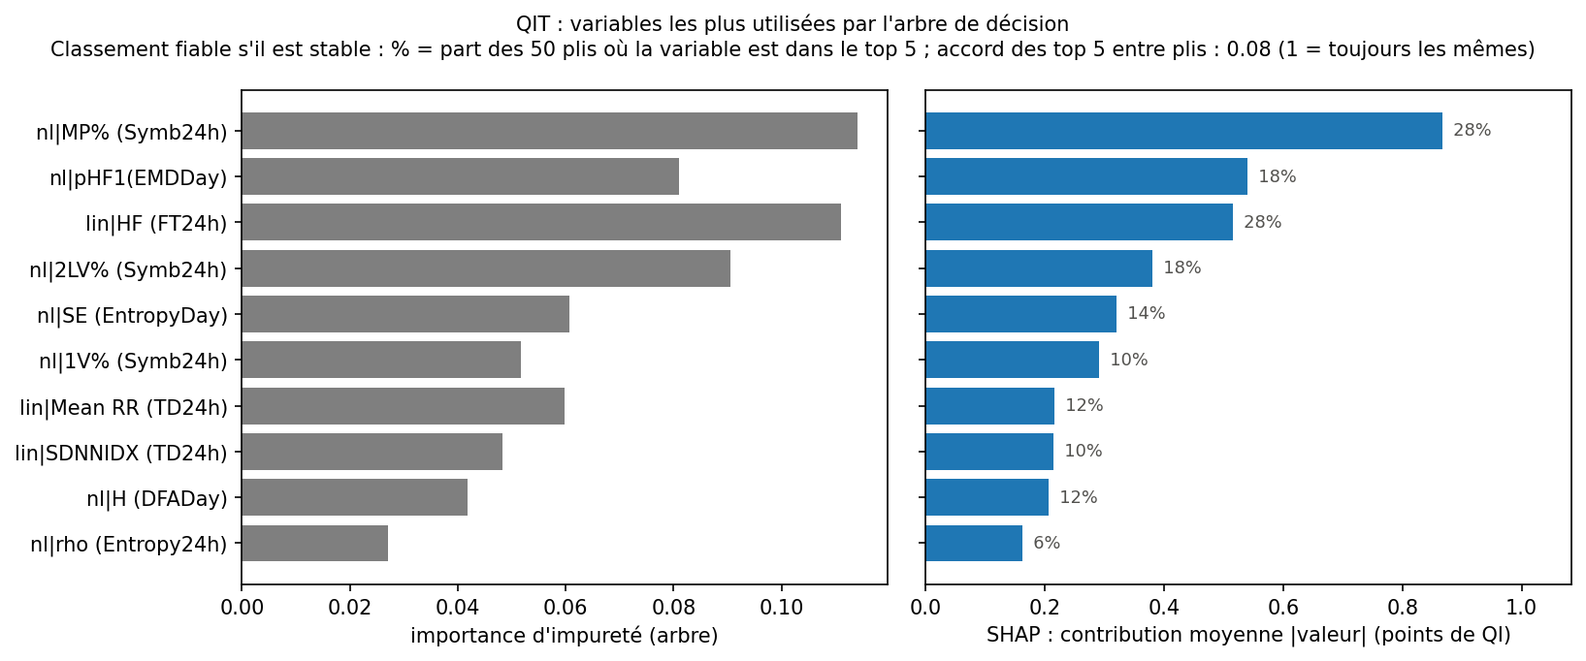
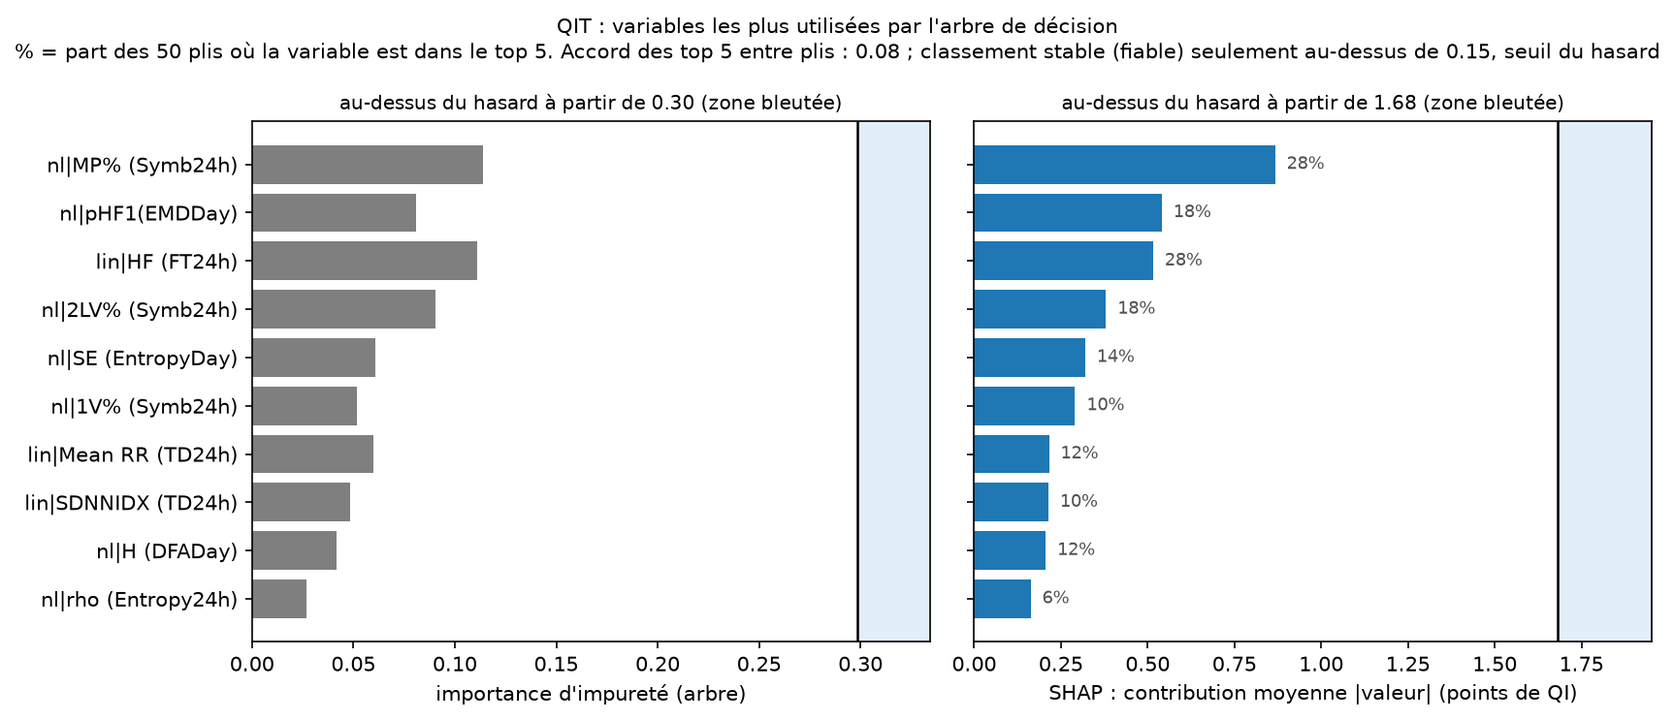
Full run of results

diff --git a/GroupA/Jade/results/SUMMARY.md b/GroupA/Jade/results/SUMMARY.md
@@ -1,12 +1,12 @@
 # Prédiction du QI à 3 ans à partir de la HRV néonatale : résumé
-*Groupe A · Jade · généré le 06/11/2026 par `01_prediction_qit.ipynb` · 10 × 5 plis*
+*Groupe A · Jade · généré le 26/11/2026 par `01_prediction_qit.ipynb` · 10 × 5 plis*
 
 ## Conclusion
-**Aucun modèle ne fait mieux que prédire le score moyen, sur aucune cible.** La HRV retrouve pourtant bien la prématurité (AUC 0.79) : les données et la méthode savent voir un lien quand il existe.
+**Aucun modèle ne fait mieux que prédire le score moyen, sur aucune cible.** La HRV retrouve pourtant la prématurité (AUC 0.79 [0.67 ; 0.93]) : les données et la méthode savent voir un lien quand il existe.
 
 ## Données et méthode
 - 189 enfants de la cohorte AuBE (enregistrement à la naissance, scores WPPSI-III complets) ; 25 indices HRV linéaires, 45 non linéaires, 6 covariables cliniques.
-- Modèles : Arbre de décision, Elastic Net, Kernel ridge, Kernel ridge multi-noyaux, LightGBM, Random Forest, Régression linéaire, SVR, XGBoost ; réduction des variables dans chaque pli ; évaluation sur les plis communs de l'équipe (10 × 5, `evaluate_model.py`).
+- Modèles : Arbre de décision, Elastic Net, Kernel ridge, Kernel ridge multi-noyaux, LightGBM, Random Forest, Régression linéaire, SVR, XGBoost ; réduction des variables dans chaque pli ; mêmes plis pour tous les modèles (10 × 5), évaluation par `evaluate_model.py` (outil commun de l'équipe).
 
 ## Régression (meilleur modèle par cible)
 | Cible | Modèle | MAE ± écart-type | R² | MAE de la moyenne | Gain vs moyenne [IC 95 %] |
@@ -22,29 +22,46 @@
 - Borne (indices choisis à l'avance : RMSSD (TD24h), HF (FT24h), SDNN (TD24h), 1re composante HRV) : aucun lien démontré ; aucun n'explique plus de 6% de la variance du QIT (6% au-delà des covariables cliniques), intervalles simultanés à 95 % ; un lien de 6% aurait été détecté 8 fois sur 10.
 - Intervalle de prédiction à 90% (prédiction conforme) : ± 21.3 points, contre ± 20.9 autour du QIT moyen.
 
+## Tous les modèles (QIT)
+MAE et R² : moyenne ± écart-type sur les plis ; gain sur la moyenne avec son IC à 95 % (`evaluate_model.py`).
+
+| modèle | MAE | R² | gain vs moyenne [IC 95 %] | gain démontré |
+|---|---|---|---|---|
+| Elastic Net · toutes · Clinique seul | 10.33 ± 0.69 | -0.007 ± 0.041 | +0.06 [-0.12 ; 0.23] | non |
+| Kernel ridge multi-noyaux · toutes · Clinique + HRV | 10.38 ± 0.73 | -0.020 ± 0.064 | +0.02 [-0.30 ; 0.32] | non |
+| score moyen (référence) | 10.39 ± 0.66 | -0.005 ± 0.004 |  |  |
+| Elastic Net · toutes · Clinique + HRV | 10.47 ± 0.72 | -0.025 ± 0.045 | -0.08 [-0.14 ; -0.02] | non, moins bien |
+| SVR · PCA 90 % · Clinique + HRV | 10.51 ± 0.73 | -0.034 ± 0.065 | -0.12 [-0.22 ; -0.02] | non, moins bien |
+| Random Forest · toutes · Clinique + HRV | 10.59 ± 0.68 | -0.047 ± 0.031 | -0.19 [-0.33 ; -0.05] | non, moins bien |
+| XGBoost · sél. RF · Clinique + HRV | 10.61 ± 0.77 | -0.058 ± 0.066 | -0.22 [-0.44 ; -0.01] | non, moins bien |
+| Kernel ridge · toutes · Clinique + HRV | 10.62 ± 0.75 | -0.068 ± 0.106 | -0.23 [-0.37 ; -0.09] | non, moins bien |
+| Régression linéaire · pas à pas · Clinique + HRV | 10.89 ± 0.80 | -0.121 ± 0.115 | -0.50 [-0.75 ; -0.24] | non, moins bien |
+| LightGBM · sél. RF · Clinique + HRV | 10.93 ± 0.86 | -0.126 ± 0.105 | -0.54 [-0.86 ; -0.23] | non, moins bien |
+| Arbre de décision · toutes · Clinique + HRV | 11.14 ± 0.97 | -0.165 ± 0.150 | -0.74 [-1.03 ; -0.46] | non, moins bien |
+
 ## Méthodes ajoutées après les retours des enseignants (QIT)
-- Régression linéaire · pas à pas · Clinique + HRV : MAE 10.89, gain -0.50 [-0.75 ; -0.24] (non démontré).
-- Arbre de décision · toutes · Clinique + HRV : MAE 11.14, gain -0.74 [-1.03 ; -0.46] (non démontré).
-- Kernel ridge · toutes · Clinique + HRV : MAE 10.62, gain -0.23 [-0.37 ; -0.09] (non démontré).
+- Régression linéaire · pas à pas · Clinique + HRV : MAE 10.89, gain -0.50 [-0.75 ; -0.24] (moins bien que la moyenne).
+- Arbre de décision · toutes · Clinique + HRV : MAE 11.14, gain -0.74 [-1.03 ; -0.46] (moins bien que la moyenne).
+- Kernel ridge · toutes · Clinique + HRV : MAE 10.62, gain -0.23 [-0.37 ; -0.09] (moins bien que la moyenne).
 - Kernel ridge multi-noyaux · toutes · Clinique + HRV : MAE 10.38, gain +0.02 [-0.30 ; 0.32] (non démontré).
 - Poids du kernel ridge multi-noyaux (médiane sur les plis) : clinique 1.00, HRV linéaire 0.00, HRV non linéaire 0.00.
-- Classement des variables par un arbre de décision (importance d'impureté et SHAP) : accord des top 5 entre plis 0.08 pour le QIT, 0.22 pour la prématurité (en tête : nl|alpha2 (DFADay)) ; 1 = toujours les mêmes variables.
-- Réglages de chaque modèle (fixés ou cherchés, et comment) : section 3 du notebook ; réglages retenus pli par pli : `results/reglages_retenus_QIT.csv`.
+- Classement des variables par un arbre de décision (importance d'impureté et SHAP) : pour le QIT, variables au-dessus du hasard : aucune ; accord des top 5 entre plis 0.08 (stable au-dessus de 0.15). Pour la prématurité : nl|alpha2 (DFADay), lin|pcNN20 (TD24h) ; accord 0.22 (stable au-dessus de 0.28).
+- Réglages de chaque modèle (fixés ou cherchés, et comment) : section 3 du notebook ; réglages retenus pli par pli : `results/reglages_retenus_QIT.md`.
 
 ## Contrôle positif, classification, hypothèses
-- Contrôle positif : HRV seule → prématurité, AUC 0.79 [0.67 ; 0.93].
-- Classification QIT < 90 (40 enfants) : meilleure AUC 0.50 [0.39 ; 0.61] (Logistique · Clinique + HRV), exactitude équilibrée 0.51, kappa 0.02.
-- H1 · HRV à M0 (189 enfants) : gain -0.13 [-0.22 ; -0.04] (non soutenue).
+- Contrôle positif : HRV seule → prématurité, AUC 0.79 [0.67 ; 0.93] (lien démontré (IC > 0,5) ; discrimination acceptable ; accord faible).
+- Classification QIT < 90 (40 enfants) : meilleure AUC 0.50 [0.39 ; 0.61] (Logistique · Clinique + HRV), exactitude équilibrée 0.50, kappa 0.00 (aucun lien démontré (l'IC contient 0,5) ; discrimination faible ; accord très faible).
+- H1 · HRV à M0 (189 enfants) : gain -0.13 [-0.22 ; -0.04] (non soutenue : moins bien que la moyenne).
 - H1 · HRV à M6 (176 enfants) : gain -0.07 [-0.32 ; 0.17] (non soutenue).
 - H1 · HRV à M12 (177 enfants) : gain -0.03 [-0.07 ; 0.01] (non soutenue).
 - H1 · HRV à M18 (173 enfants) : gain +0.01 [-0.14 ; 0.17] (non soutenue).
-- H1 · HRV à M24 (182 enfants) : gain -0.14 [-0.24 ; -0.05] (non soutenue).
+- H1 · HRV à M24 (182 enfants) : gain -0.14 [-0.24 ; -0.05] (non soutenue : moins bien que la moyenne).
 - H2 · évolution M0 → M12 (175 enfants) : gain -0.05 [-0.19 ; 0.08] (non soutenue).
 - H2 · évolution M0 → M24 (180 enfants) : gain -0.10 [-0.26 ; 0.05] (non soutenue).
 - Avec 7 hypothèses testées, une hypothèse soutenue isolée peut être due au hasard : à confirmer.
 
 ## Limites
-- Environ 190 enfants ; pas de cohorte externe ; le QI à 3 ans dépend de nombreux facteurs non mesurés ici (environnement familial, niveau socio-économique).
+- 189 enfants ; pas de cohorte externe ; le QI à 3 ans dépend de nombreux facteurs non mesurés ici (environnement familial, niveau socio-économique).
 - Une association n'est pas une cause : un modèle prédictif ne dit pas comment améliorer le QI d'un enfant.
 
 ## Suite

diff --git a/GroupA/Jade/results/en/SUMMARY.md b/GroupA/Jade/results/en/SUMMARY.md
@@ -1,12 +1,12 @@
 # Predicting IQ at age 3 from neonatal HRV: summary
-*Group A · Jade · generated on 05/11/2026 by `01_prediction_qit_en.ipynb` · 10 × 5 folds*
+*Group A · Jade · generated on 26/11/2026 by `01_prediction_qit_en.ipynb` · 10 × 5 folds*
 
 ## Conclusion
-**No model does better than predicting the mean score, for any target.** Yet HRV does recognise prematurity (AUC 0.79): the data and the method can see a link when there is one.
+**No model does better than predicting the mean score, for any target.** Yet HRV does recognise prematurity (AUC 0.79 [0.67, 0.93]): the data and the method can see a link when there is one.
 
 ## Data and method
 - 189 children of the AuBE cohort (recording at birth, complete WPPSI-III scores); 25 linear HRV indices, 45 non-linear, 6 clinical covariates.
-- Models: Elastic Net, LightGBM, Random Forest, SVR, XGBoost; feature reduction within each fold; evaluation on the team's shared folds (10 × 5, `evaluate_model.py`).
+- Models: Decision tree, Elastic Net, Kernel ridge, LightGBM, Linear regression, Multiple kernel ridge, Random Forest, SVR, XGBoost; feature reduction within each fold; same folds for all models (10 × 5), evaluation with `evaluate_model.py` (the team's shared tool).
 - Targets (French codes of the data): QIT = Full Scale IQ, QIV = Verbal IQ, QIP = Performance IQ, NCL = General Language Composite.
 
 ## Regression (best model per target)
@@ -23,20 +23,46 @@
 - Bound (indices chosen in advance: RMSSD (TD24h), HF (FT24h), SDNN (TD24h), 1st HRV component): no link demonstrated; none explains more than 6% of the FSIQ variance (6% beyond the clinical covariates), simultaneous 95% intervals; a link of 6% would have been detected 8 times out of 10.
 - 90% prediction interval (conformal prediction): ± 21.3 points, versus ± 20.9 around the mean FSIQ.
 
+## All models (FSIQ)
+MAE and R²: mean ± standard deviation over the folds; gain over the mean with its 95% CI (`evaluate_model.py`).
+
+| model | MAE | R² | gain vs mean [95% CI] | gain demonstrated |
+|---|---|---|---|---|
+| Elastic Net · all · Clinical only | 10.33 ± 0.69 | -0.007 ± 0.041 | +0.06 [-0.12, 0.23] | no |
+| Multiple kernel ridge · all · Clinical + HRV | 10.38 ± 0.73 | -0.020 ± 0.064 | +0.02 [-0.30, 0.32] | no |
+| mean score (baseline) | 10.39 ± 0.66 | -0.005 ± 0.004 |  |  |
+| Elastic Net · all · Clinical + HRV | 10.47 ± 0.72 | -0.025 ± 0.045 | -0.08 [-0.14, -0.02] | no, worse |
+| SVR · PCA 90% · Clinical + HRV | 10.51 ± 0.73 | -0.034 ± 0.065 | -0.12 [-0.22, -0.02] | no, worse |
+| Random Forest · all · Clinical + HRV | 10.59 ± 0.68 | -0.047 ± 0.031 | -0.19 [-0.33, -0.05] | no, worse |
+| XGBoost · RF selection · Clinical + HRV | 10.61 ± 0.77 | -0.058 ± 0.066 | -0.22 [-0.44, -0.01] | no, worse |
+| Kernel ridge · all · Clinical + HRV | 10.62 ± 0.75 | -0.068 ± 0.106 | -0.23 [-0.37, -0.09] | no, worse |
+| Linear regression · stepwise · Clinical + HRV | 10.89 ± 0.80 | -0.121 ± 0.115 | -0.50 [-0.75, -0.24] | no, worse |
+| LightGBM · RF selection · Clinical + HRV | 10.93 ± 0.86 | -0.126 ± 0.105 | -0.54 [-0.86, -0.23] | no, worse |
+| Decision tree · all · Clinical + HRV | 11.14 ± 0.97 | -0.165 ± 0.150 | -0.74 [-1.03, -0.46] | no, worse |
+
+## Methods added after the teachers' feedback (FSIQ)
+- Linear regression · stepwise · Clinical + HRV: MAE 10.89, gain -0.50 [-0.75, -0.24] (worse than the mean).
+- Decision tree · all · Clinical + HRV: MAE 11.14, gain -0.74 [-1.03, -0.46] (worse than the mean).
+- Kernel ridge · all · Clinical + HRV: MAE 10.62, gain -0.23 [-0.37, -0.09] (worse than the mean).
+- Multiple kernel ridge · all · Clinical + HRV: MAE 10.38, gain +0.02 [-0.30, 0.32] (not demonstrated).
+- Multiple kernel ridge weights (median over the folds): clinical 1.00, linear HRV 0.00, non-linear HRV 0.00.
+- Variable ranking by a decision tree (impurity importance and SHAP): for FSIQ, variables above chance: none; agreement of the top 5 between folds 0.08 (stable above 0.15). For prematurity: nl|alpha2 (DFADay), lin|pcNN20 (TD24h); agreement 0.22 (stable above 0.28).
+- Settings of each model (fixed or tuned, and how): section 3 of the notebook; settings chosen fold by fold: `results/en/settings_chosen_QIT.md`.
+
 ## Positive control, classification, hypotheses
-- Positive control: HRV only → prematurity, AUC 0.79 [0.67, 0.93].
-- Classification FSIQ < 90 (40 children): best AUC 0.50 [0.39, 0.61] (Logistic · Clinical + HRV), balanced accuracy 0.51, kappa 0.02.
-- H1 · HRV at M0 (189 children): gain -0.13 [-0.22, -0.04] (not supported).
+- Positive control: HRV only → prematurity, AUC 0.79 [0.67, 0.93] (link demonstrated (CI > 0.5); acceptable discrimination; fair agreement).
+- Classification FSIQ < 90 (40 children): best AUC 0.50 [0.39, 0.61] (Logistic · Clinical + HRV), balanced accuracy 0.50, kappa 0.00 (no link demonstrated (CI contains 0.5); poor discrimination; slight agreement).
+- H1 · HRV at M0 (189 children): gain -0.13 [-0.22, -0.04] (not supported: worse than the mean).
 - H1 · HRV at M6 (176 children): gain -0.07 [-0.32, 0.17] (not supported).
 - H1 · HRV at M12 (177 children): gain -0.03 [-0.07, 0.01] (not supported).
 - H1 · HRV at M18 (173 children): gain +0.01 [-0.14, 0.17] (not supported).
-- H1 · HRV at M24 (182 children): gain -0.14 [-0.24, -0.05] (not supported).
+- H1 · HRV at M24 (182 children): gain -0.14 [-0.24, -0.05] (not supported: worse than the mean).
 - H2 · change M0 → M12 (175 children): gain -0.05 [-0.19, 0.08] (not supported).
 - H2 · change M0 → M24 (180 children): gain -0.10 [-0.26, 0.05] (not supported).
 - With 7 hypotheses tested, an isolated supported hypothesis may be due to chance: to be confirmed.
 
 ## Limitations
-- About 190 children; no external cohort; IQ at age 3 depends on many factors not measured here (family environment, socio-economic status).
+- 189 children; no external cohort; IQ at age 3 depends on many factors not measured here (family environment, socio-economic status).
 - Association is not causation: a predictive model does not say how to improve a child's IQ.
 
 ## Next steps

diff --git a/GroupA/Jade/README_fr.md b/GroupA/Jade/README_fr.md
@@ -227,7 +227,7 @@ Jeu final : **189 enfants**, 25 indices HRV linéaires et 45 non linéaires (à 
 | QIP (performance) | Elastic Net, clinique seul | 9,75  | 9,75              | +0,00 [−0,16 ; 0,17]  |
 | NCL (langage)     | Elastic Net, clinique seul | 11,64 | 11,62             | −0,01 [−0,15 ; 0,13] |
 
-Aucun gain démontré (tous les IC contiennent 0). Ajouter la HRV au modèle clinique fait légèrement moins bien (MAE du QIT de 10,33 à 10,47). Les modèles à base d'arbres (Random Forest, LightGBM, XGBoost) font en moyenne moins bien que la moyenne, sur les 4 cibles.
+Aucun gain démontré (tous les IC contiennent 0). Ajouter la HRV au modèle clinique fait moins bien, de peu mais de façon démontrée (MAE du QIT de 10,33 à 10,47 ; gain sur la moyenne −0,08 [−0,14 ; −0,02]). Les modèles à base d'arbres (Random Forest, LightGBM, XGBoost) font en moyenne moins bien que la moyenne, sur les 4 cibles.
 
 ![Comparaison des modèles](results/comparaison_modeles.png)
 
@@ -257,7 +257,7 @@ Aucun gain démontré (tous les IC contiennent 0). Ajouter la HRV au modèle cli
 
 **Ce qui a été fait.** (a) Repérer les enfants avec un QIT < 90 (40 enfants) plutôt que prédire le score. (b) H1 : la HRV enregistrée plus tard (M6 à M24). (c) H2 : l'évolution de la HRV entre la naissance et 12 ou 24 mois.
 
-**Résultat.** QIT < 90 : AUC 0,50 [0,39 ; 0,61], comme le hasard (kappa 0,02). H1 et H2 : 7 hypothèses, aucune soutenue ; deux font même moins bien que la moyenne (HRV à la naissance : gain −0,13 [−0,22 ; −0,04] ; HRV à 24 mois : −0,14 [−0,24 ; −0,05]).
+**Résultat.** QIT < 90 : AUC 0,50 [0,39 ; 0,61], comme le hasard (kappa 0,00). H1 et H2 : 7 hypothèses, aucune soutenue ; deux font même moins bien que la moyenne (HRV à la naissance : gain −0,13 [−0,22 ; −0,04] ; HRV à 24 mois : −0,14 [−0,24 ; −0,05]).
 
 ![Hypothèses](results/hypotheses.png)
 
@@ -304,7 +304,9 @@ Aucun gain démontré (tous les IC contiennent 0). Ajouter la HRV au modèle cli
 | Kernel ridge multi-noyaux                    | 10,38 | +0,02 [−0,30 ; 0,32]         | non démontré : fait jeu égal avec la moyenne (10,39) |
 
 - **Poids du multi-noyaux** (médiane sur les 50 plis) : clinique **1,00**, HRV linéaire **0,00**, HRV non linéaire **0,00**. Quand on la laisse choisir, la validation croisée **n'utilise pas du tout la HRV** : c'est pour ça que ce modèle rejoint la moyenne au lieu de faire moins bien.
-- **Classement des variables** : l'accord des top 5 entre plis vaut 0,08 pour le QIT (le classement change presque à chaque pli) et 0,22 pour la prématurité (plus stable ; variable en tête : `nl|alpha2 (DFADay)`, un indice fractal de la HRV de jour). Pour savoir si ces valeurs sont bonnes, tout le classement est refait avec le QI (ou la prématurité) mélangé entre enfants : les seuils du hasard ainsi obtenus sont tracés sur les graphiques ci-dessous et repris dans `results/SUMMARY.md`.
+- **Classement des variables** (seuils du hasard : le même classement refait avec le QI, ou la prématurité, mélangé entre enfants) :
+  - pour le QIT, aucune variable ne dépasse le seuil du hasard, et l'accord des top 5 entre plis (0,08) reste sous celui du hasard (0,15) : le classement ne décrit que du bruit ;
+  - pour la prématurité, deux indices dépassent le seuil du hasard, en importance comme en SHAP : `nl|alpha2 (DFADay)`, un indice fractal de la HRV de jour, et `lin|pcNN20 (TD24h)`, la part des battements successifs qui diffèrent de plus de 20 ms (un marqueur du tonus vagal). Leurs valeurs basses vont avec une prématurité plus probable, mais l'effet moyen par quintile reste dans la zone du hasard, et l'ordre des variables suivantes n'est pas plus stable que par hasard (accord 0,22 contre 0,28). La HRV reconnaît donc la prématurité (étape 7) sans qu'un classement fin de ses indices soit fiable avec 189 enfants.
 - **SVR** : ses chiffres changent un peu avec la grille corrigée (tableau de tous les modèles dans `results/SUMMARY.md`) ; il reste moins bon qu'Elastic Net.
 - Réglages retenus pli par pli : [`results/reglages_retenus_QIT.md`](results/reglages_retenus_QIT.md).
 

diff --git a/GroupA/Jade/README.md b/GroupA/Jade/README.md
@@ -227,7 +227,7 @@ Final dataset: **189 children**, 25 linear and 45 non-linear HRV indices (at M0,
 | QIP (performance) | Elastic Net, clinical only | 9.75 | 9.75 | +0.00 [−0.16, 0.17] |
 | NCL (language) | Elastic Net, clinical only | 11.64 | 11.62 | −0.01 [−0.15, 0.13] |
 
-No gain is demonstrated (every CI contains 0). Adding HRV to the clinical model does slightly worse (FSIQ MAE from 10.33 to 10.47). Tree-based models (Random Forest, LightGBM, XGBoost) do worse than the mean on average, for all 4 targets.
+No gain is demonstrated (every CI contains 0). Adding HRV to the clinical model does worse, slightly but demonstrably (FSIQ MAE from 10.33 to 10.47; gain over the mean −0.08 [−0.14, −0.02]). Tree-based models (Random Forest, LightGBM, XGBoost) do worse than the mean on average, for all 4 targets.
 
 ![Model comparison](results/en/model_comparison.png)
 
@@ -257,7 +257,7 @@ No gain is demonstrated (every CI contains 0). Adding HRV to the clinical model 
 
 **What was done.** (a) Spot children with FSIQ < 90 (40 children) instead of predicting the score. (b) H1: HRV recorded later (M6 to M24). (c) H2: change in HRV between birth and 12 or 24 months.
 
-**Result.** FSIQ < 90: AUC 0.50 [0.39, 0.61], like chance (kappa 0.02). H1 and H2: 7 hypotheses, none supported; two even do worse than the mean (HRV at birth: gain −0.13 [−0.22, −0.04]; HRV at 24 months: −0.14 [−0.24, −0.05]).
+**Result.** FSIQ < 90: AUC 0.50 [0.39, 0.61], like chance (kappa 0.00). H1 and H2: 7 hypotheses, none supported; two even do worse than the mean (HRV at birth: gain −0.13 [−0.22, −0.04]; HRV at 24 months: −0.14 [−0.24, −0.05]).
 
 ![Hypotheses](results/en/hypotheses.png)
 
@@ -304,7 +304,9 @@ No gain is demonstrated (every CI contains 0). Adding HRV to the clinical model 
 | Multiple kernel ridge | 10.38 | +0.02 [−0.30, 0.32] | not demonstrated: on a par with the mean (10.39) |
 
 - **Multiple kernel weights** (median over the 50 folds): clinical **1.00**, linear HRV **0.00**, non-linear HRV **0.00**. When it is allowed to choose, cross-validation **does not use HRV at all**: this is why this model matches the mean instead of doing worse.
-- **Variable ranking**: the top-5 agreement between folds is 0.08 for FSIQ (the ranking changes almost every fold) and 0.22 for prematurity (more stable; top variable: `nl|alpha2 (DFADay)`, a fractal index of daytime HRV). To tell whether these values are good, the whole ranking is redone with IQ (or prematurity) shuffled between children: the chance thresholds obtained this way are drawn on the plots below and reported in `results/en/SUMMARY.md`.
+- **Variable ranking** (chance thresholds: the same ranking redone with IQ, or prematurity, shuffled between children):
+  - for FSIQ, no variable exceeds the chance threshold, and the top-5 agreement between folds (0.08) stays below the chance level (0.15): the ranking only describes noise;
+  - for prematurity, two indices exceed the chance threshold, in importance as in SHAP: `nl|alpha2 (DFADay)`, a fractal index of daytime HRV, and `lin|pcNN20 (TD24h)`, the share of successive beats that differ by more than 20 ms (a marker of vagal tone). Their low values go with a higher probability of prematurity, but the mean effect by quintile stays within the chance zone, and the order of the following variables is no more stable than chance (agreement 0.22 versus 0.28). HRV therefore recognises prematurity (step 7), but a fine ranking of its indices is not reliable with 189 children.
 - **SVR**: its numbers change slightly with the corrected grid (table of all models in `results/en/SUMMARY.md`); it stays worse than Elastic Net.
 - Settings chosen fold by fold: [`results/en/settings_chosen_QIT.md`](results/en/settings_chosen_QIT.md).
 

diff --git a/GroupA/Jade/results/reglages_retenus_QIT.md b/GroupA/Jade/results/reglages_retenus_QIT.md
@@ -1,0 +1,38 @@
+| modèle | réglage | valeurs retenues (nombre de plis) |
+|---|---|---|
+| Elastic Net · toutes · Clinique seul | alpha | médiane 1.42 [0.162 ; 23.5] |
+| Elastic Net · toutes · Clinique seul | l1_ratio | 0.1 (39/50), 0.3 (4/50), 0.7 (3/50), 0.5 (2/50), 0.9 (2/50) |
+| Elastic Net · toutes · Clinique + HRV | alpha | médiane 22 [0.694 ; 57.1] |
+| Elastic Net · toutes · Clinique + HRV | l1_ratio | 0.1 (33/50), 0.9 (8/50), 0.3 (4/50), 0.7 (3/50), 0.5 (2/50) |
+| Random Forest · toutes · Clinique + HRV | n_estimators | 500 (25/50), 200 (25/50) |
+| Random Forest · toutes · Clinique + HRV | min_samples_leaf | 20 (47/50), 10 (2/50), 5 (1/50) |
+| Random Forest · toutes · Clinique + HRV | max_features | log2 (42/50), sqrt (8/50) |
+| Random Forest · toutes · Clinique + HRV | max_depth | 3 (27/50), 7 (23/50) |
+| LightGBM · sél. RF · Clinique + HRV | n_estimators | 300 (48/50), 100 (2/50) |
+| LightGBM · sél. RF · Clinique + HRV | max_depth | 5 (37/50), 3 (12/50), -1 (1/50) |
+| LightGBM · sél. RF · Clinique + HRV | reg_lambda | 10 (38/50), 0 (11/50), 1 (1/50) |
+| LightGBM · sél. RF · Clinique + HRV | reg_alpha | 0 (38/50), 1 (11/50), 0.1 (1/50) |
+| LightGBM · sél. RF · Clinique + HRV | min_child_samples | 20 (39/50), 10 (11/50) |
+| LightGBM · sél. RF · Clinique + HRV | learning_rate | 0.01 (47/50), 0.1 (2/50), 0.05 (1/50) |
+| XGBoost · sél. RF · Clinique + HRV | n_estimators | 100 (47/50), 300 (3/50) |
+| XGBoost · sél. RF · Clinique + HRV | max_depth | 3 (23/50), 7 (22/50), 5 (5/50) |
+| XGBoost · sél. RF · Clinique + HRV | reg_lambda | 10 (47/50), 1 (3/50) |
+| XGBoost · sél. RF · Clinique + HRV | reg_alpha | 1 (32/50), 0.1 (18/50) |
+| XGBoost · sél. RF · Clinique + HRV | learning_rate | 0.01 (46/50), 0.05 (3/50), 0.1 (1/50) |
+| XGBoost · sél. RF · Clinique + HRV | subsample | 0.8 (36/50), 1 (14/50) |
+| XGBoost · sél. RF · Clinique + HRV | min_child_weight | 1 (49/50), 5 (1/50) |
+| SVR · PCA 90 % · Clinique + HRV | kernel | rbf (49/50), linear (1/50) |
+| SVR · PCA 90 % · Clinique + HRV | gamma | auto (28/50), scale (21/50) |
+| SVR · PCA 90 % · Clinique + HRV | epsilon | 1 (40/50), 0.1 (10/50) |
+| SVR · PCA 90 % · Clinique + HRV | C | 1 (38/50), 0.1 (9/50), 10 (3/50) |
+| SVR · PCA 90 % · Clinique + HRV | composantes PCA | 16 (31/50), 17 (19/50) |
+| Régression linéaire · pas à pas · Clinique + HRV | variables | 2 variables [1 ; 6] ; les plus choisies : nl\|MP% (Symb24h) (19/50), nl\|alpha1 (DFA24h) (12/50), clin\|Réa à la naissance (11/50), clin\|Tabac (10/50), nl\|Katz (24h) (9/50) |
+| Arbre de décision · toutes · Clinique + HRV | min_samples_leaf | 30 (23/50), 10 (15/50), 20 (8/50), 5 (4/50) |
+| Arbre de décision · toutes · Clinique + HRV | max_depth | 2 (45/50), 3 (3/50), 4 (2/50) |
+| Kernel ridge · toutes · Clinique + HRV | alpha | 100 (30/50), 1 (10/50), 10 (9/50), 0.1 (1/50) |
+| Kernel ridge · toutes · Clinique + HRV | kernel | laplacian (23/50), rbf (18/50), linear (9/50) |
+| Kernel ridge · toutes · Clinique + HRV | gamma | 0.001 (29/50), 0.05 (6/50), 0.005 (4/50), 0.01 (2/50) |
+| Kernel ridge multi-noyaux · toutes · Clinique + HRV | alpha | 1 (32/50), 10 (18/50) |
+| Kernel ridge multi-noyaux · toutes · Clinique + HRV | poids clinique | 1 (34/50), 0.5 (7/50), 0.75 (6/50), 0.25 (2/50), 0 (1/50) |
+| Kernel ridge multi-noyaux · toutes · Clinique + HRV | poids HRV linéaire | 0 (40/50), 0.5 (4/50), 0.25 (4/50), 0.75 (1/50), 1 (1/50) |
+| Kernel ridge multi-noyaux · toutes · Clinique + HRV | poids HRV non linéaire | 0 (43/50), 0.5 (4/50), 0.25 (3/50) |

diff --git a/GroupA/Jade/results/en/settings_chosen_QIT.md b/GroupA/Jade/results/en/settings_chosen_QIT.md
@@ -1,0 +1,38 @@
+| model | setting | values chosen (number of folds) |
+|---|---|---|
+| Elastic Net · all · Clinical only | alpha | median 1.42 [0.162, 23.5] |
+| Elastic Net · all · Clinical only | l1_ratio | 0.1 (39/50), 0.3 (4/50), 0.7 (3/50), 0.5 (2/50), 0.9 (2/50) |
+| Elastic Net · all · Clinical + HRV | alpha | median 22 [0.694, 57.1] |
+| Elastic Net · all · Clinical + HRV | l1_ratio | 0.1 (33/50), 0.9 (8/50), 0.3 (4/50), 0.7 (3/50), 0.5 (2/50) |
+| Random Forest · all · Clinical + HRV | n_estimators | 500 (25/50), 200 (25/50) |
+| Random Forest · all · Clinical + HRV | min_samples_leaf | 20 (47/50), 10 (2/50), 5 (1/50) |
+| Random Forest · all · Clinical + HRV | max_features | log2 (42/50), sqrt (8/50) |
+| Random Forest · all · Clinical + HRV | max_depth | 3 (27/50), 7 (23/50) |
+| LightGBM · RF selection · Clinical + HRV | n_estimators | 300 (48/50), 100 (2/50) |
+| LightGBM · RF selection · Clinical + HRV | max_depth | 5 (37/50), 3 (12/50), -1 (1/50) |
+| LightGBM · RF selection · Clinical + HRV | reg_lambda | 10 (38/50), 0 (11/50), 1 (1/50) |
+| LightGBM · RF selection · Clinical + HRV | reg_alpha | 0 (38/50), 1 (11/50), 0.1 (1/50) |
+| LightGBM · RF selection · Clinical + HRV | min_child_samples | 20 (39/50), 10 (11/50) |
+| LightGBM · RF selection · Clinical + HRV | learning_rate | 0.01 (47/50), 0.1 (2/50), 0.05 (1/50) |
+| XGBoost · RF selection · Clinical + HRV | n_estimators | 100 (47/50), 300 (3/50) |
+| XGBoost · RF selection · Clinical + HRV | max_depth | 3 (23/50), 7 (22/50), 5 (5/50) |
+| XGBoost · RF selection · Clinical + HRV | reg_lambda | 10 (47/50), 1 (3/50) |
+| XGBoost · RF selection · Clinical + HRV | reg_alpha | 1 (32/50), 0.1 (18/50) |
+| XGBoost · RF selection · Clinical + HRV | learning_rate | 0.01 (46/50), 0.05 (3/50), 0.1 (1/50) |
+| XGBoost · RF selection · Clinical + HRV | subsample | 0.8 (36/50), 1 (14/50) |
+| XGBoost · RF selection · Clinical + HRV | min_child_weight | 1 (49/50), 5 (1/50) |
+| SVR · PCA 90% · Clinical + HRV | kernel | rbf (49/50), linear (1/50) |
+| SVR · PCA 90% · Clinical + HRV | gamma | auto (28/50), scale (21/50) |
+| SVR · PCA 90% · Clinical + HRV | epsilon | 1 (40/50), 0.1 (10/50) |
+| SVR · PCA 90% · Clinical + HRV | C | 1 (38/50), 0.1 (9/50), 10 (3/50) |
+| SVR · PCA 90% · Clinical + HRV | PCA components | 16 (31/50), 17 (19/50) |
+| Linear regression · stepwise · Clinical + HRV | variables | 2 variables [1, 6]; most chosen: nl\|MP% (Symb24h) (19/50), nl\|alpha1 (DFA24h) (12/50), clin\|Réa à la naissance (11/50), clin\|Tabac (10/50), nl\|Katz (24h) (9/50) |
+| Decision tree · all · Clinical + HRV | min_samples_leaf | 30 (23/50), 10 (15/50), 20 (8/50), 5 (4/50) |
+| Decision tree · all · Clinical + HRV | max_depth | 2 (45/50), 3 (3/50), 4 (2/50) |
+| Kernel ridge · all · Clinical + HRV | alpha | 100 (30/50), 1 (10/50), 10 (9/50), 0.1 (1/50) |
+| Kernel ridge · all · Clinical + HRV | kernel | laplacian (23/50), rbf (18/50), linear (9/50) |
+| Kernel ridge · all · Clinical + HRV | gamma | 0.001 (29/50), 0.05 (6/50), 0.005 (4/50), 0.01 (2/50) |
+| Multiple kernel ridge · all · Clinical + HRV | alpha | 1 (32/50), 10 (18/50) |
+| Multiple kernel ridge · all · Clinical + HRV | weight clinical | 1 (34/50), 0.5 (7/50), 0.75 (6/50), 0.25 (2/50), 0 (1/50) |
+| Multiple kernel ridge · all · Clinical + HRV | weight linear HRV | 0 (40/50), 0.5 (4/50), 0.25 (4/50), 0.75 (1/50), 1 (1/50) |
+| Multiple kernel ridge · all · Clinical + HRV | weight non-linear HRV | 0 (43/50), 0.5 (4/50), 0.25 (3/50) |
